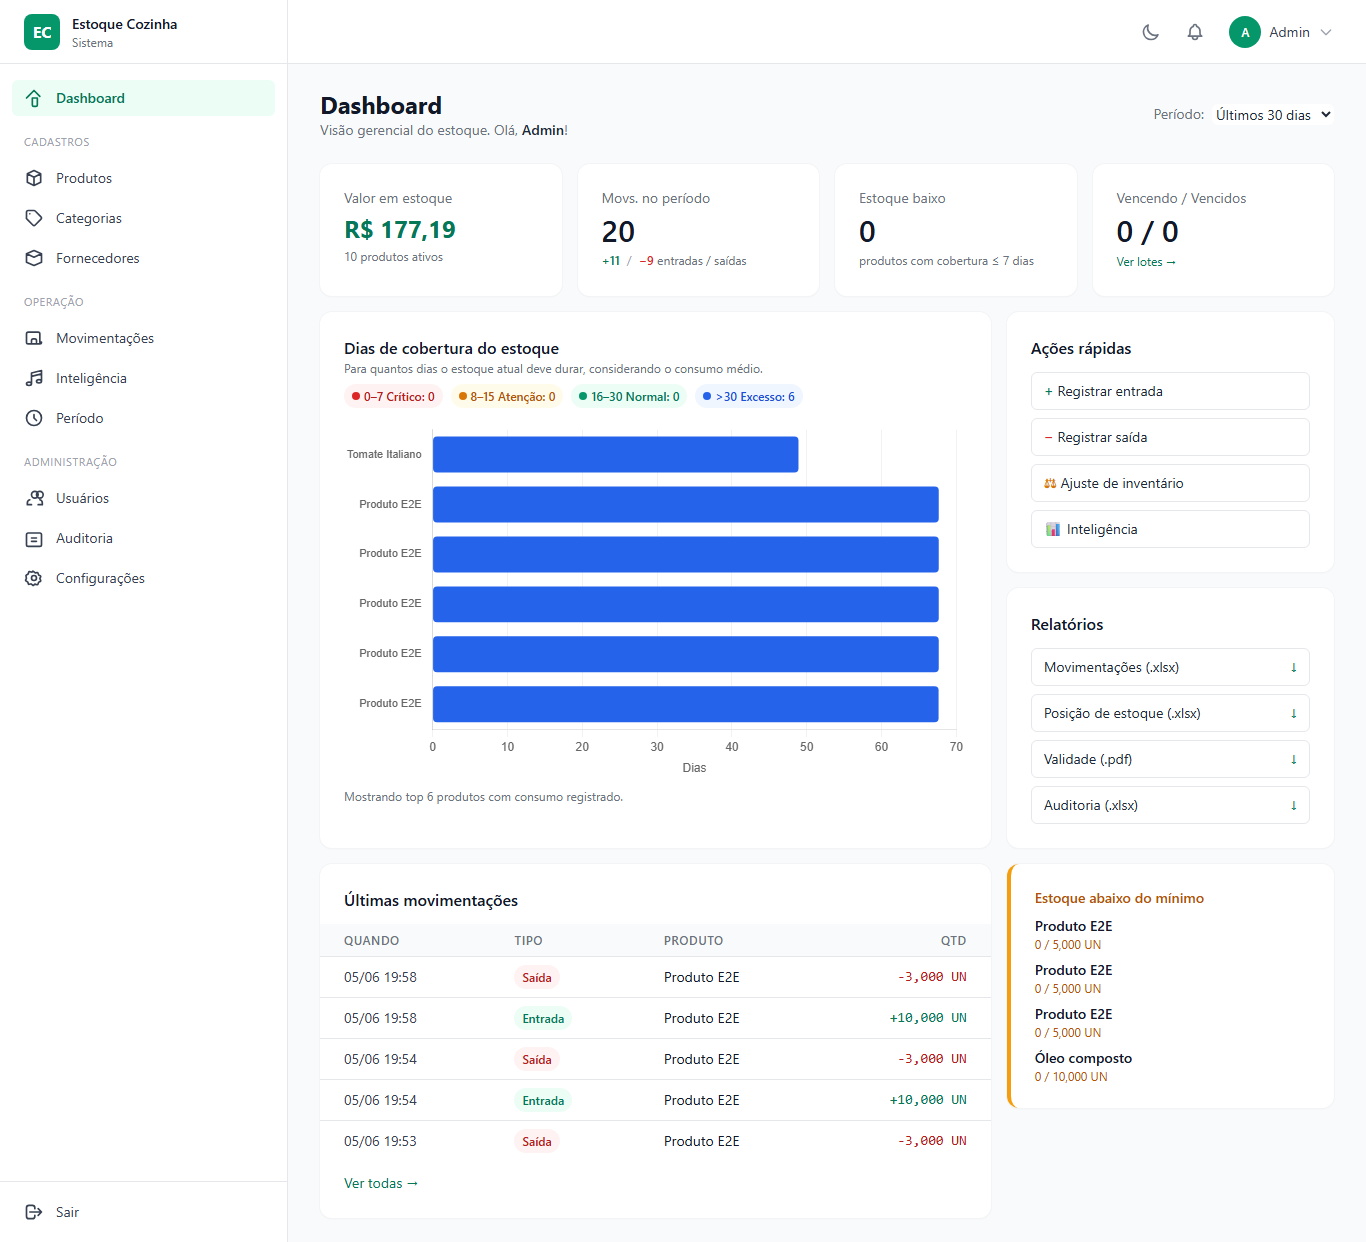
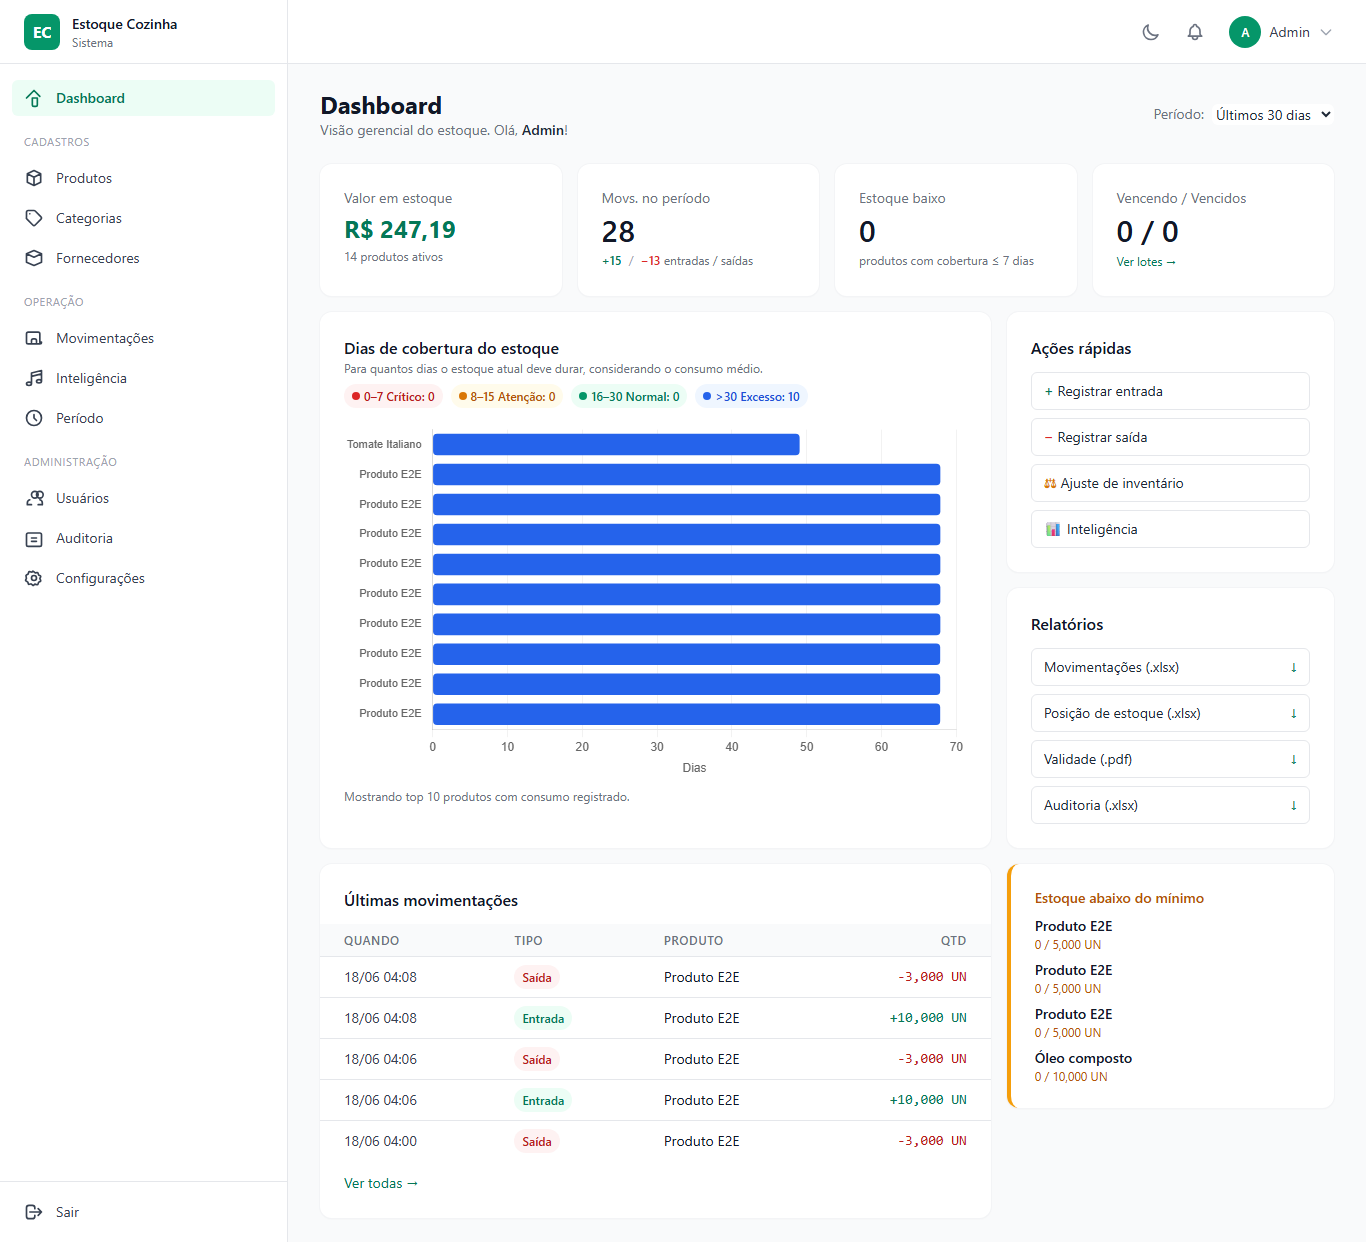
fix: SESSION_COOKIE_SECURE=False para funcionar sem HTTPS

diff --git a/estoque/settings.py b/estoque/settings.py
@@ -154,9 +154,10 @@ if not DEBUG:
     SECURE_HSTS_INCLUDE_SUBDOMAINS = True
     SECURE_HSTS_PRELOAD = True
 
-    # Proteções de cookie
-    SESSION_COOKIE_SECURE = True
-    CSRF_COOKIE_SECURE = True
+    # Proteções de cookie — só Secure se HTTPS estiver ativo
+    # (muda para True após configurar Let's Encrypt)
+    SESSION_COOKIE_SECURE = False
+    CSRF_COOKIE_SECURE = False
     SESSION_COOKIE_HTTPONLY = True
     CSRF_COOKIE_HTTPONLY = True
 
@@ -169,6 +170,8 @@ if not DEBUG:
     csrf_origins = os.environ.get("CSRF_TRUSTED_ORIGINS", "")
     if csrf_origins:
         CSRF_TRUSTED_ORIGINS = [f"https://{o.strip()}" for o in csrf_origins.split(",") if o.strip()]
+        # Also allow HTTP for the IP (before SSL is configured)
+        CSRF_TRUSTED_ORIGINS += [f"http://{o.strip()}" for o in csrf_origins.split(",") if o.strip()]
 
 # Logging
 LOGGING = {